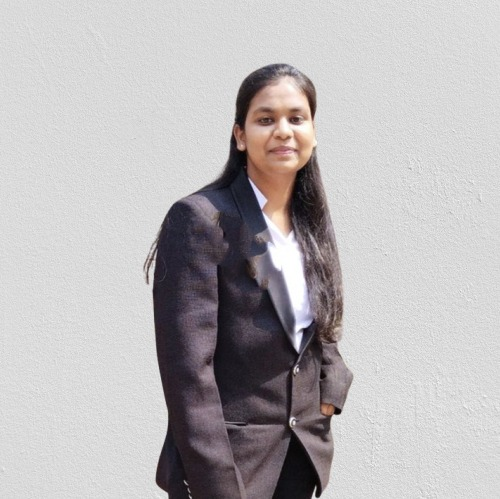
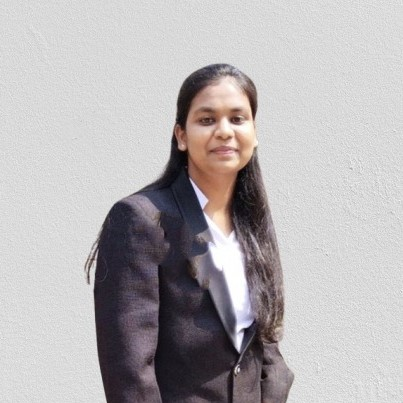
commit 5

Changed region(s): [[0.2084, 0.1191, 0.7444, 1.0]]

diff --git a/assets/css/style.css b/assets/css/style.css
@@ -708,9 +708,11 @@ section {
   background: #f6f6f6;
   padding: 80px 0;
 }
+
 #testimonials .profile {
   text-align: center;
 }
+
 #testimonials .profile .pic {
   border-radius: 50%;
   border: 6px solid #fff;
@@ -719,17 +721,21 @@ section {
   height: 260px;
   width: 260px;
 }
+
 #testimonials .profile .pic img {
   max-width: 100%;
 }
+
 #testimonials .profile h4 {
   font-weight: 700;
   color: #03C4EB;
   margin-bottom: 5px;
 }
+
 #testimonials .profile span {
   color: #333333;
 }
+
 #testimonials .quote {
   position: relative;
   background: #fff;
@@ -739,13 +745,67 @@ section {
   font-style: italic;
   border-radius: 5px;
 }
+
 @media (max-width: 1180px) {
   #testimonials .quote {
-    margin-left: 60px;
-    /* margin-top: 35px; */
+      margin-left: 60px;
+  }
+}
+
+@media (max-width: 992px) {
+  #testimonials {
+      padding: 60px 20px;
   }
 
+  #testimonials .profile {
+      display: flex;
+      flex-direction: column;
+      align-items: center;
+  }
+
+  #testimonials .quote {
+      margin-left: 0;
+      padding: 40px;
+      font-size: 14px;
+  }
 }
+
+@media (max-width: 768px) {
+  #testimonials {
+      padding: 40px 10px;
+  }
+
+  #testimonials .profile .pic {
+      height: 200px;
+      width: 200px;
+  }
+
+  #testimonials .quote {
+      padding: 30px;
+      font-size: 12px;
+  }
+}
+
+@media (max-width: 576px) {
+  #testimonials .profile .pic {
+      height: 180px;
+      width: 180px;
+  }
+
+  #testimonials .quote {
+      padding: 20px;
+      font-size: 10px;
+  }
+
+  #testimonials .profile h4 {
+      font-size: 18px;
+  }
+
+  #testimonials .profile span {
+      font-size: 14px;
+  }
+}
+
 #testimonials .quote b {
   display: inline-block;
   font-size: 22px;
@@ -753,6 +813,7 @@ section {
   position: relative;
   top: -8px;
 }
+
 #testimonials .quote small {
   display: inline-block;
   right: -9px;

diff --git a/index.html b/index.html
@@ -1008,7 +1008,7 @@
 
           <div class="col-lg-3 col-md-6" data-aos="zoom-in" data-aos-delay="100000">
             <div class="mem">
-              <img src="./assets/img/2024/" class="img-fluid n-img b" alt="image">
+              <img src="./assets/img/2024/Vaishnavi Mankhair.jpg" class="img-fluid n-img b" alt="image">
               <div class="social">
                 <a href="https://github.com/Vaishnavim-04"><i class="bi bi-github"></i></a>
                 <a href="https://www.linkedin.com/in/vaishnavi-mankhair-860649299"><i class="bi bi-linkedin"></i></a>
@@ -1024,10 +1024,10 @@
         
             <div class="col-lg-3 col-md-6" data-aos="zoom-in" data-aos-delay="100000">
             <div class="mem">
-              <img src="./assets/img/2024/" class="img-fluid n-img b" alt="image">
+              <img src="./assets/img/2024/Vaishnavi Patil.jpg" class="img-fluid n-img b" alt="image">
               <div class="social">
-                <a href="https://github.com/"><i class="bi bi-github"></i></a>
-                <a href="https://www.linkedin.com/in/"><i class="bi bi-linkedin"></i></a>
+                <a href="https://github.com/vaishuuupatil"><i class="bi bi-github"></i></a>
+                <a href="https://www.linkedin.com/in/vaishnavi-patil-715a11306"><i class="bi bi-linkedin"></i></a>
               </div>
               <div class="member-info-content">
                 <h4>Vaishnavi Patil</h4>
@@ -1038,7 +1038,7 @@
           </div>
 
 
-          
+           
 
 
 
